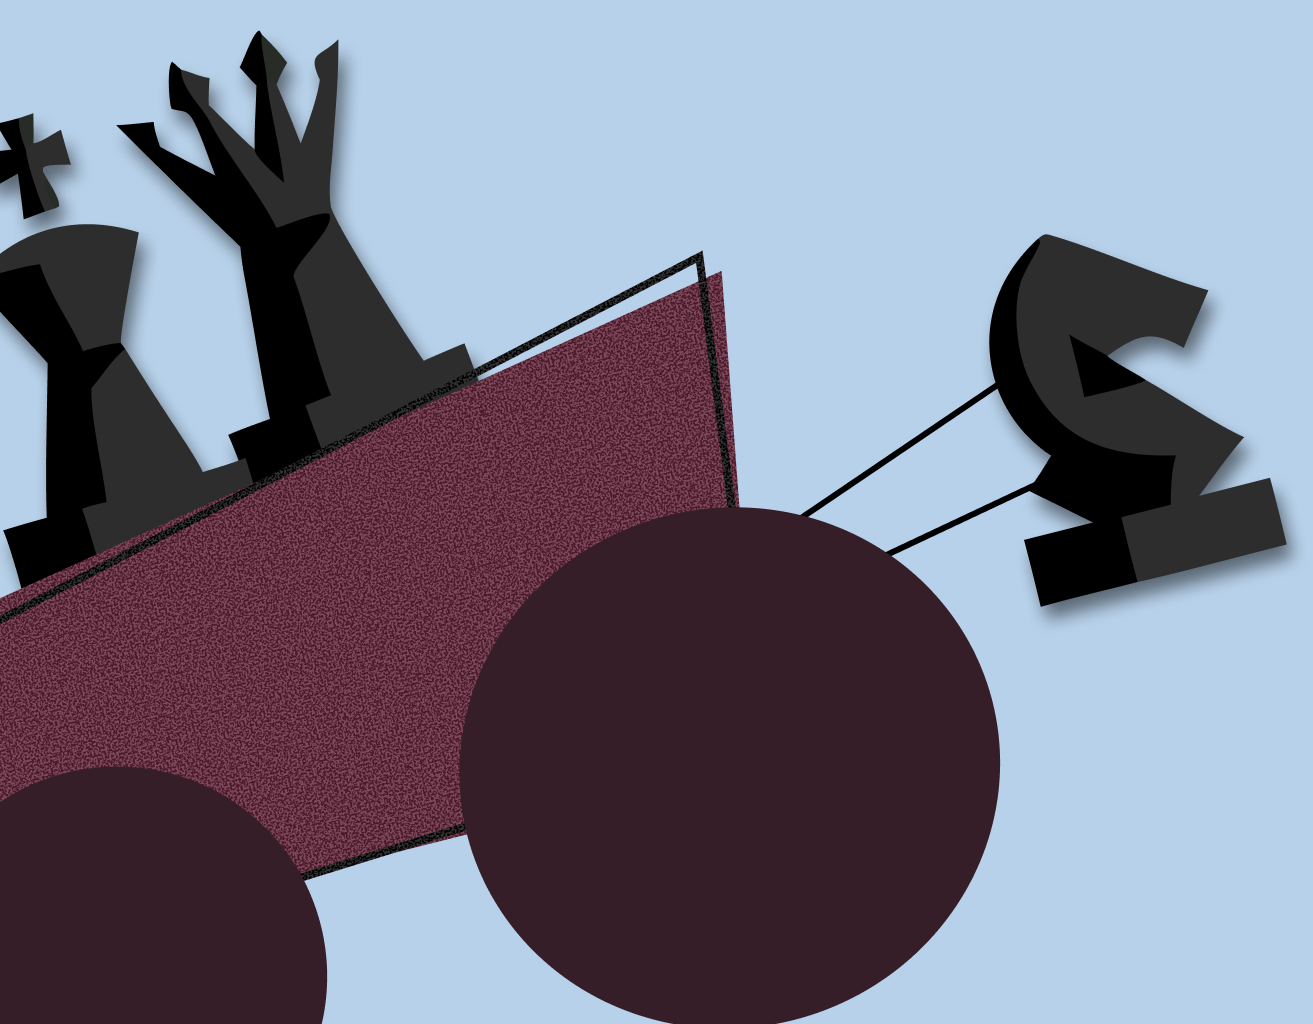
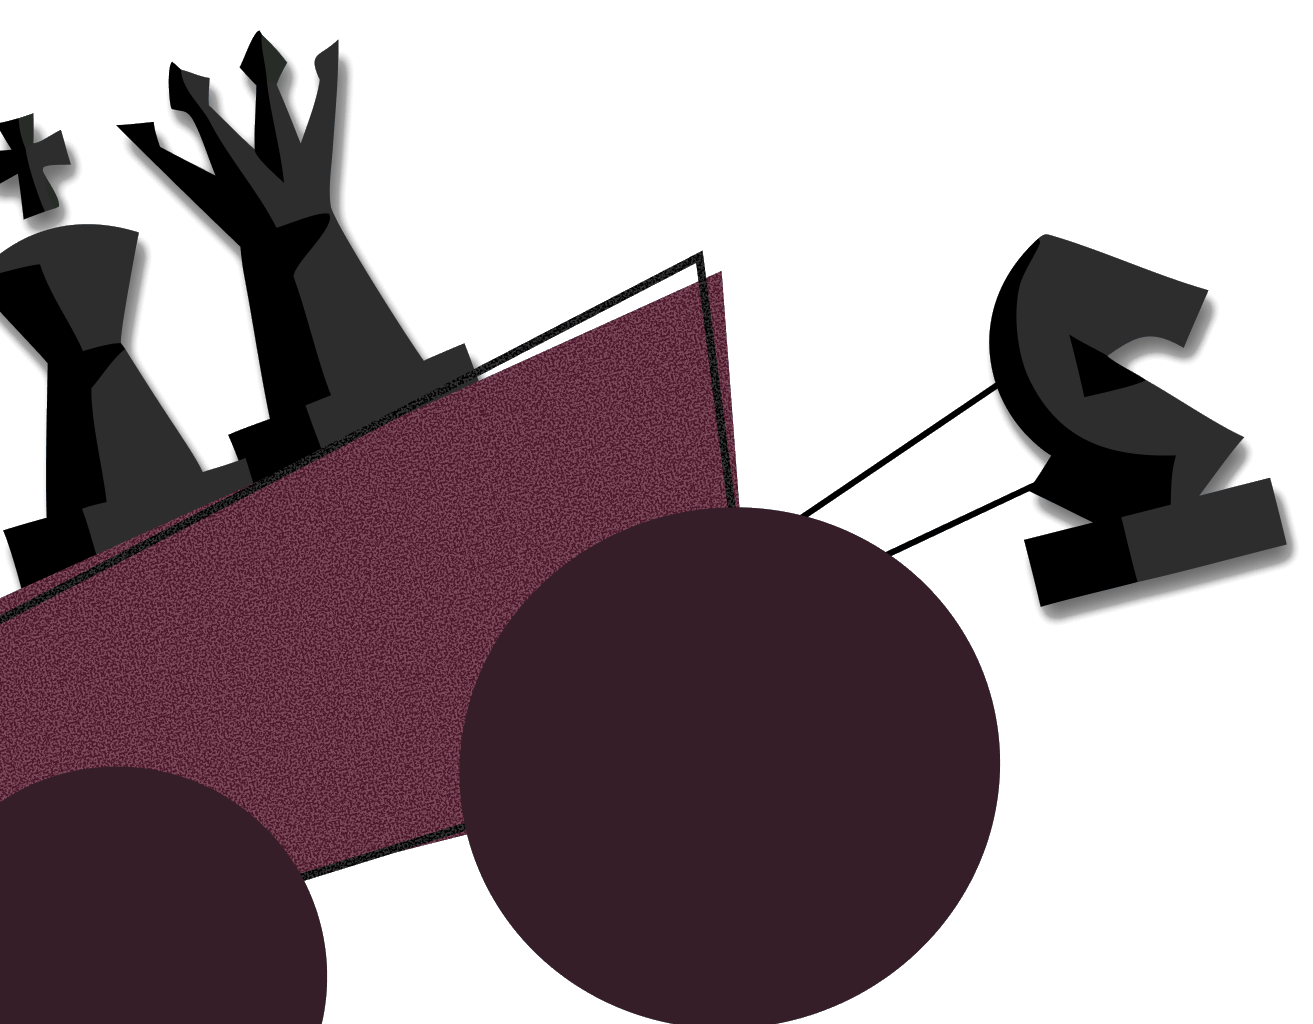
Fix chariot transparency, reposition stripe, and stop loading screen reappearing on refresh
- loading-white-side.png / loading-black-side.png had an opaque blue
  rectangle baked in (same bug as the home corner pieces) that was
  punching a visible blue notch through the checker stripe wherever
  they overlapped. Chroma-keyed + de-tinted both, same as before.
- Checker stripe repositioned to sit between the two chariots instead
  of cutting through either one.
- The loading screen is a one-time welcome splash, not real app state.
  It now only shows once per tab (tracked via sessionStorage) instead
  of reappearing on every refresh — refreshing from home now stays on
  home.

diff --git a/client/src/App.jsx b/client/src/App.jsx
@@ -77,10 +77,28 @@ function loadPieceStyle() {
   }
 }
 
+// The loading screen is a one-time welcome splash, not a real app state —
+// it should never reappear on a refresh (that would risk looking like
+// progress was lost). sessionStorage survives refresh but is private to
+// this tab, so "seen once this tab" is exactly the right scope.
+const INTRO_SEEN_KEY = 'chess_intro_seen';
+
+function loadInitialScreen() {
+  try {
+    return sessionStorage.getItem(INTRO_SEEN_KEY) ? 'home' : 'loading';
+  } catch {
+    return 'loading';
+  }
+}
+
+function markIntroSeen() {
+  try { sessionStorage.setItem(INTRO_SEEN_KEY, '1'); } catch {}
+}
+
 export default function App() {
   const [theme, setTheme] = useState(loadTheme);
   const [pieceStyle, setPieceStyle] = useState(loadPieceStyle);
-  const [screen, setScreen] = useState('loading');
+  const [screen, setScreen] = useState(loadInitialScreen);
 
   const [roomCode, setRoomCode] = useState('');
   const [playerName, setPlayerName] = useState('');
@@ -104,6 +122,7 @@ export default function App() {
   // handleEnterFromLoading below. If a rejoin completes first (see the
   // socket effect below), it will have already moved us to 'game' itself.
   function handleEnterFromLoading() {
+    markIntroSeen();
     setScreen(s => (s === 'loading' ? 'home' : s));
   }
 

diff --git a/client/src/screens/LoadingScreen.jsx b/client/src/screens/LoadingScreen.jsx
@@ -13,7 +13,7 @@ export default function LoadingScreen({ onEnter }) {
       <div style={{
         position: 'absolute',
         top: '-40%',
-        left: '65%',
+        left: '58%',
         width: 'clamp(90px, 14vw, 200px)',
         height: '220%',
         transform: 'translateX(-50%) rotate(-18deg)',